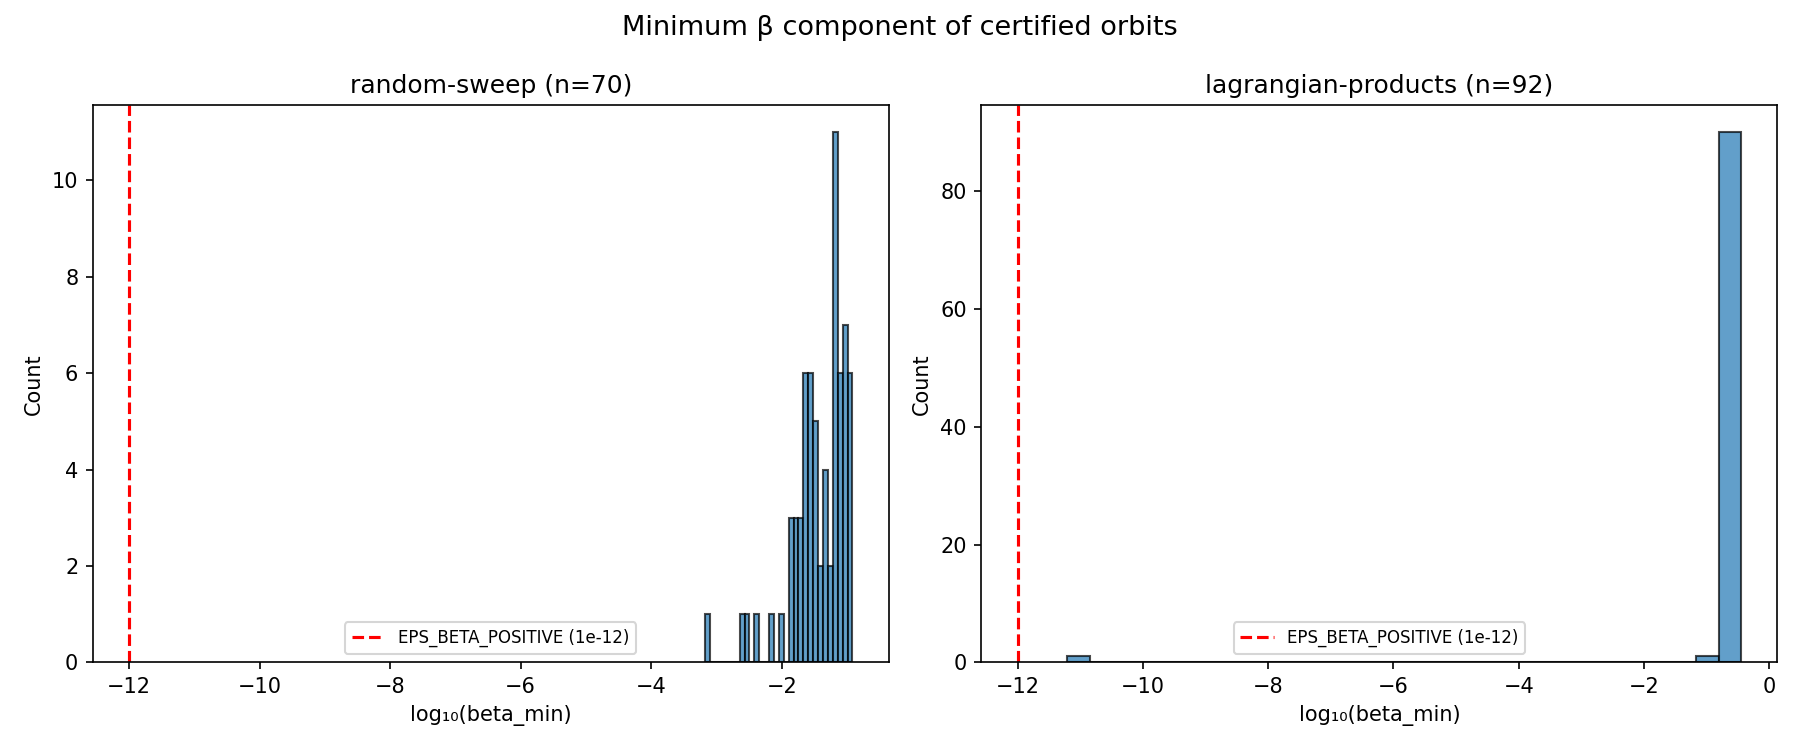
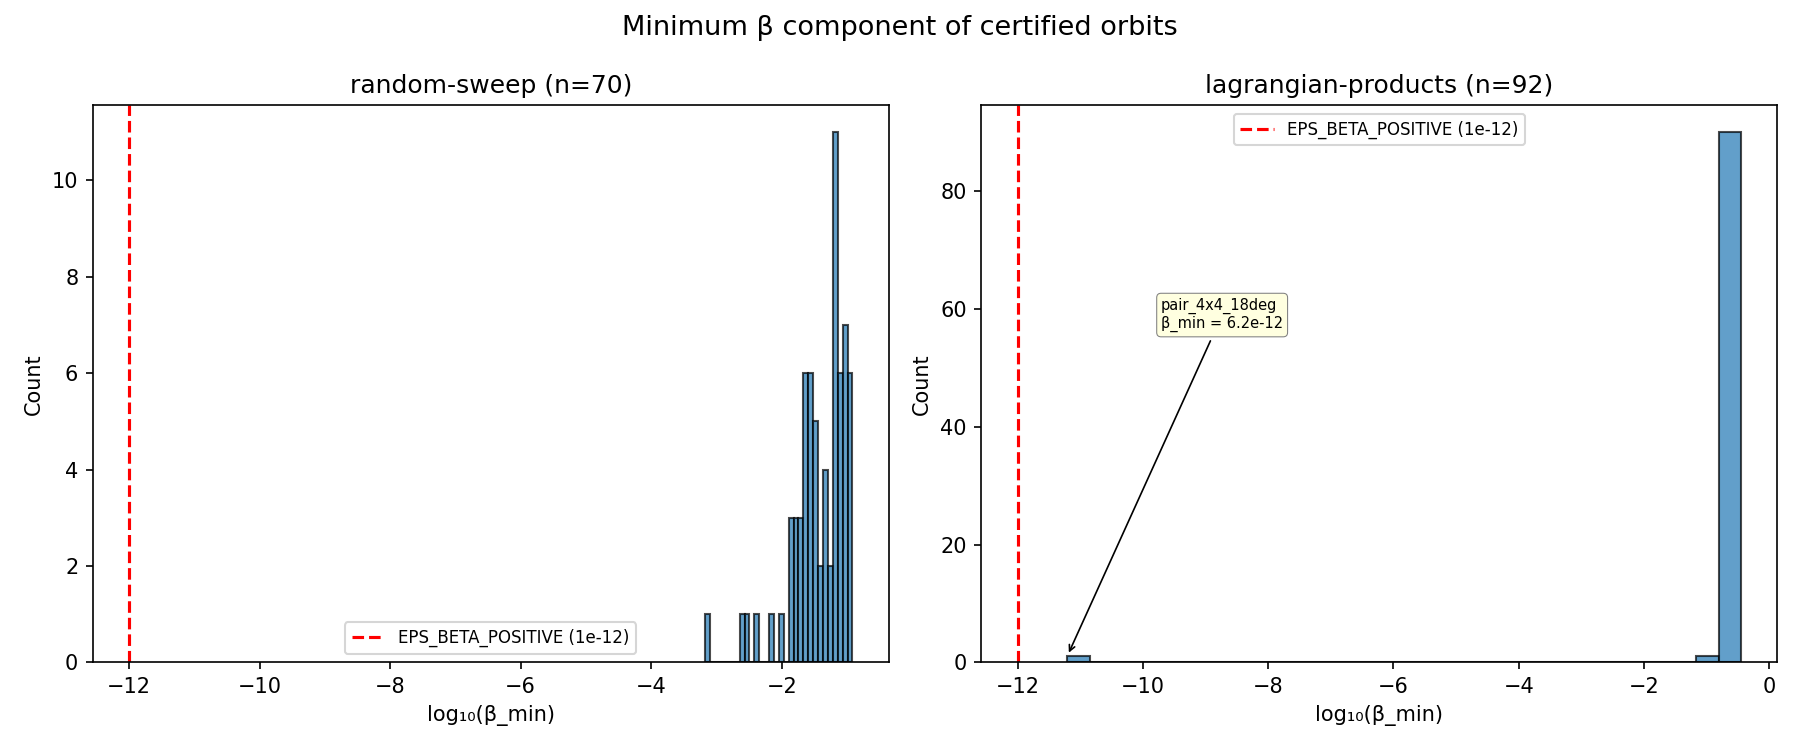
Annotate near-miss outlier in histogram, update README with results
Histogram: add arrow annotation pointing to pair_4x4_18deg outlier
in the lagrangian-products panel (previously barely visible).
README: update from "idea only" to completed Phase 1 results.

diff --git a/experiments/unknown-predicates/unknown_predicates.py b/experiments/unknown-predicates/unknown_predicates.py
@@ -132,7 +132,7 @@ def main():
             continue
         log_bm = np.log10(bm[bm > 0])
         ax.hist(log_bm, bins=30, edgecolor="black", alpha=0.7)
-        ax.set_xlabel("log₁₀(beta_min)")
+        ax.set_xlabel("log₁₀(β_min)")
         ax.set_ylabel("Count")
         ax.set_title(f"{label} (n={len(subset)})")
         ax.axvline(
@@ -142,6 +142,18 @@ def main():
             label="EPS_BETA_POSITIVE (1e-12)",
         )
         ax.legend(fontsize=8)
+
+        # Annotate the near-miss outlier if present
+        if log_bm.min() < -8:
+            nearest = subset[int(np.argmin(bm))]
+            ax.annotate(
+                f"{nearest['name']}\nβ_min = {bm.min():.1e}",
+                xy=(log_bm.min(), 1),
+                xytext=(log_bm.min() + 1.5, max(ax.get_ylim()[1] * 0.6, 3)),
+                fontsize=7,
+                arrowprops=dict(arrowstyle="->", color="black", lw=0.8),
+                bbox=dict(boxstyle="round,pad=0.3", fc="lightyellow", ec="gray", lw=0.5),
+            )
 
     fig.suptitle("Minimum β component of certified orbits", fontsize=13)
     fig.tight_layout()

diff --git a/experiments/unknown-predicates/README.md b/experiments/unknown-predicates/README.md
@@ -1,6 +1,6 @@
-# Experiment idea: UNKNOWN predicate states
+# Experiment: UNKNOWN predicate survey
 
-Status: **idea only** (no code yet, YAGNI until Phase 1 shows a problem)
+Status: **Phase 1 complete** — negative result, zero UNKNOWNs found across 162 polytopes.
 
 ## Motivation
 
@@ -14,21 +14,29 @@ UNKNOWN candidates above it represent unresolved uncertainty.
 practice on our polytope datasets? If not, the certified value *is*
 the answer and no further work is needed.
 
-## Phase 1: Empirical check (do UNKNOWNs appear at all?)
+## Phase 1 results
 
-Run the existing `random-sweep` and `lagrangian-products` datasets
-through the algorithm with logging that reports, for each polytope:
+Ran the random-sweep (70 polytopes, F=5..12) and lagrangian-products
+(92 polytopes, 10 regular polygon pairs) through the production
+algorithms, tracking certified vs uncertain capacity and β_min.
 
-1. How many adjacency predicates returned UNKNOWN (vs TRUE/FALSE).
-2. How many positivity predicates returned UNKNOWN (vs TRUE/FALSE).
-3. Whether the final answer is certified or has uncertain candidates
-   above the certified value.
+**Finding: zero UNKNOWNs.** Numerical gap = 0 for all 162 polytopes.
 
-If no UNKNOWNs appear across the full dataset, stop here.
-The algorithm is empirically exact-precision on our data.
+β_min distribution:
+- Random polytopes: 6.7e-4 to 1.2e-1 (well above ε = 1e-12)
+- Lagrangian products: 6.2e-12 to 3.5e-1
+- Near-miss: `pair_4x4_18deg` has β_min = 6.2e-12 (6× above threshold)
 
-If UNKNOWNs appear, record which predicate type and where
-(adjacency vs positivity, which polytope, which pair (S, sigma)).
+Conclusion: algorithm is empirically exact at f64 precision.
+Phase 2 is not needed.
+
+## Pipeline
+
+```bash
+cd experiments/
+cargo run --bin unknown_predicates --release    # → unknown-predicates.jsonl
+python3 unknown-predicates/unknown_predicates.py  # → beta_min histogram
+```
 
 ## Phase 2: Resolution strategies (only if Phase 1 finds UNKNOWNs)
 
